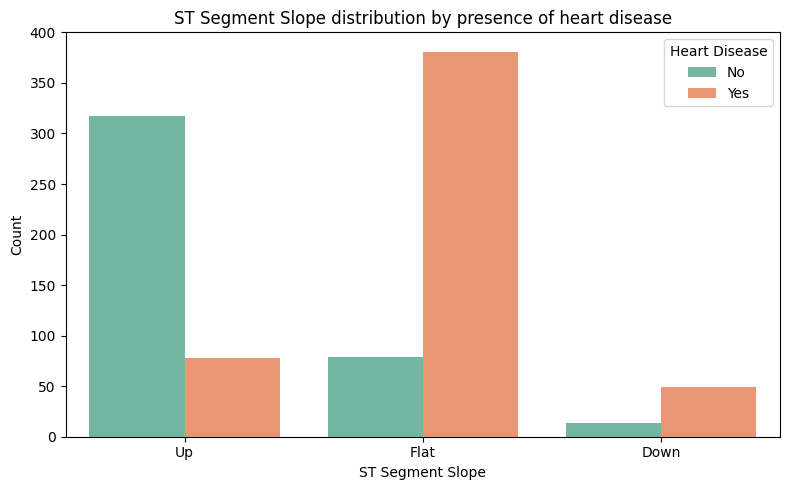
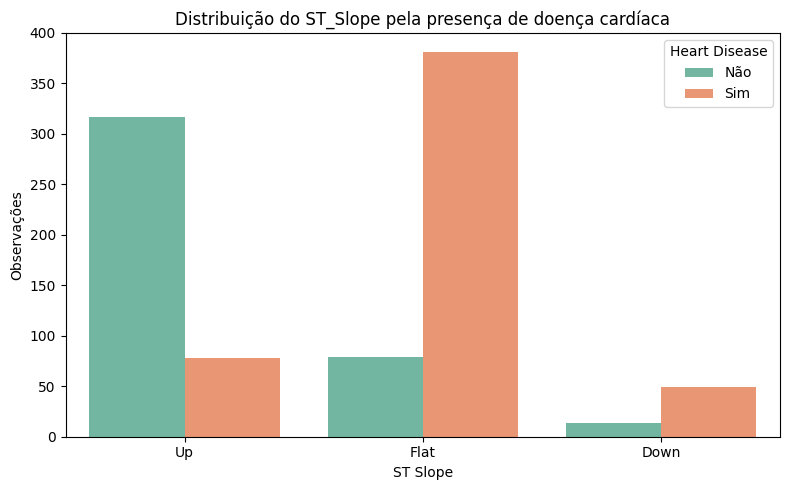
feat: adição de triagem do paciente, e alterações em imagens

diff --git a/templates/index.html b/templates/index.html
@@ -1,0 +1,71 @@
+<!DOCTYPE html>
+<html lang="pt-br">
+<head>
+    <meta charset="UTF-8">
+    <title>Triagem do paciente</title>
+</head>
+<body>
+    <div style="display:flex;align-items:center;justify-content:center;flex-direction:column;">
+        <h1>Triagem do paciente</h1>
+
+        <form action="/predict" method="post" style="margin-bottom:2em;display:flex;flex-direction:column;gap:8px;width:300px;">
+
+            <input type="number" name="age" placeholder="Idade" required>
+
+            <select name="sex" required>
+                <option value="">Sexo</option>
+                <option value="M">Masculino</option>
+                <option value="F">Feminino</option>
+            </select>
+
+            <select name="chestpain" required>
+                <option value="">Tipo de dor no peito</option>
+                <option value="TA">Angina típica</option>
+                <option value="ATA">Angina atípica</option>
+                <option value="NAP">Dor não anginosa</option>
+                <option value="ASY">Assintomático</option>
+            </select>
+
+            <input type="number" name="restingbp" placeholder="Pressão em repouso" required>
+
+            <input type="number" step="0.1" name="cholesterol" placeholder="Colesterol" required>
+
+            <select name="fastingbs" required>
+                <option value="">Glicemia em jejum &gt; 120 mg/dl?</option>
+                <option value="1">Sim</option>
+                <option value="0">Não</option>
+            </select>
+
+            <select name="restingecg" required>
+                <option value="">ECG em repouso</option>
+                <option value="Normal">Normal</option>
+                <option value="ST">Alteração ST-T</option>
+                <option value="LVH">Hipertrofia ventricular esquerda</option>
+            </select>
+
+            <input type="number" name="maxhr" placeholder="Frequência cardíaca máxima" required>
+
+            <select name="exerciseangina" required>
+                <option value="">Angina induzida por exercício?</option>
+                <option value="Y">Sim</option>
+                <option value="N">Não</option>
+            </select>
+
+            <input type="number" step="0.1" name="oldpeak" placeholder="Oldpeak (depressão ST)" required>
+
+            <select name="stslope" required>
+                <option value="">Inclinação ST</option>
+                <option value="Up">Ascendente</option>
+                <option value="Flat">Plano</option>
+                <option value="Down">Descendente</option>
+            </select>
+
+            <button type="submit">Enviar</button>
+        </form>
+
+        {% if result %}
+            <h2>{{ result }}</h2>
+        {% endif %}
+    </div>
+</body>
+</html>

diff --git a/main.py b/main.py
@@ -1,0 +1,56 @@
+import joblib
+import pandas as pd
+from fastapi import FastAPI, Request, Form
+from fastapi.responses import HTMLResponse
+from fastapi.templating import Jinja2Templates
+
+app = FastAPI()
+
+templates = Jinja2Templates(directory="templates")
+
+model = joblib.load('best_xgboost.pkl')
+
+@app.get("/", response_class=HTMLResponse)
+async def home(request: Request):
+    return templates.TemplateResponse("index.html", {"request": request})
+
+@app.post("/predict", response_class=HTMLResponse)
+async def predict(
+    request: Request,
+    age: int = Form(...),
+    sex: str = Form(...),
+    chestpain: str = Form(...),
+    restingbp: int = Form(...),
+    cholesterol: float = Form(...),
+    fastingbs: int = Form(...),
+    restingecg: str = Form(...),
+    maxhr: int = Form(...),
+    exerciseangina: str = Form(...),
+    oldpeak: float = Form(...),
+    stslope: str = Form(...)
+):
+
+    data = pd.DataFrame([{
+        'Age': age,
+        'Sex': sex,
+        'ChestPainType': chestpain,
+        'RestingBP': restingbp,
+        'Cholesterol': cholesterol,
+        'FastingBS': fastingbs,
+        'RestingECG': restingecg,
+        'MaxHR': maxhr,
+        'ExerciseAngina': exerciseangina,
+        'Oldpeak': oldpeak,
+        'ST_Slope': stslope
+    }])
+
+    proba = model.predict_proba(data)
+    if proba[0][0] > proba[0][1]:
+        result = f'{proba[0][0] * 100:.2f}% sem doença'
+    else:
+        result = f'{proba[0][1] * 100:.2f}% com doença'
+
+    return templates.TemplateResponse("index.html", {
+        "request": request,
+        "result": result
+    })
